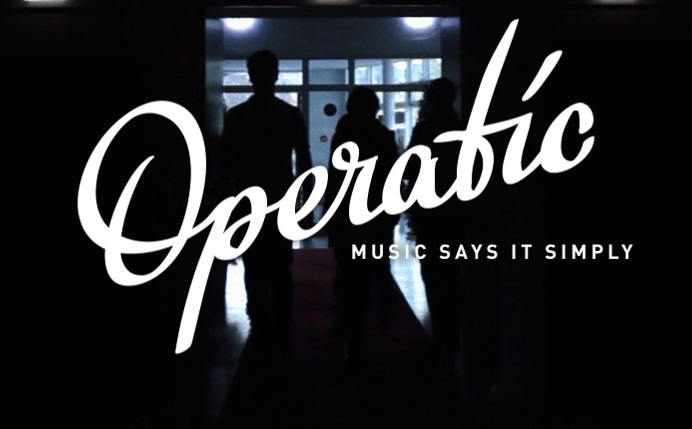
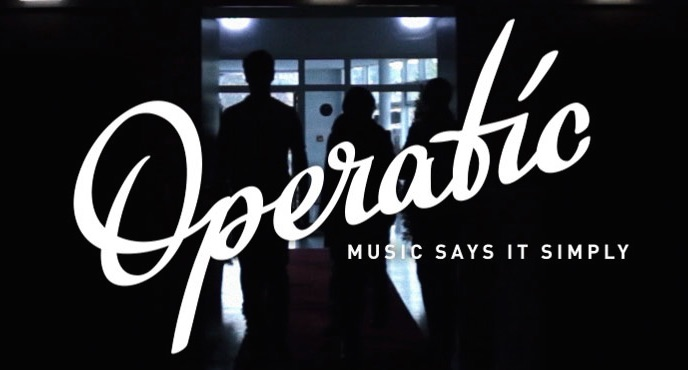
update poster image and size for fb

Changed region(s): [[0.0916, 0.0, 0.9157, 0.9514], [0.0305, 0.0, 0.061, 0.0297]]

diff --git a/index.html b/index.html
@@ -14,7 +14,7 @@
 		<meta property="og:url" content="http://operaticthefilm.com/" />
 		<meta property="og:image" content="http://operatic.de/images/fb-poster.jpg" />
 		<meta property="og:image:width" content="692" />
-		<meta property="og:image:height" content="429" />
+		<meta property="og:image:height" content="370" />
 
 		<!--[if lte IE 8]><script src="css/ie/html5shiv.js"></script><![endif]-->
 		<script src="js/jquery.min.js"></script>
